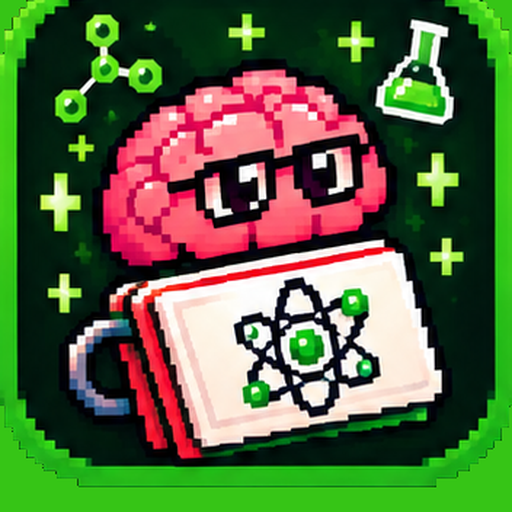
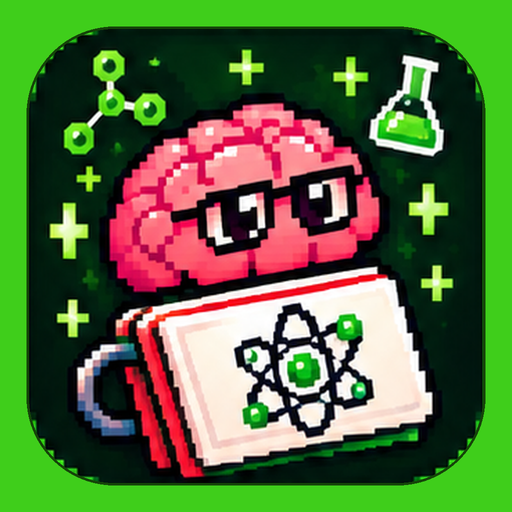
Ikony aplikacji: dokładne wycięcie i równa ramka dookoła
Claude-Session: https://claude.ai/code/session_01XXanGnhjjnzsxd4etEsKKt

diff --git a/theme.js b/theme.js
@@ -163,9 +163,9 @@ const APP_ICONS = [['red', 'Czerwona'], ['blue', 'Niebieska'], ['purple', 'Fiole
   ['cyan', 'Turkusowa'], ['pink', 'Różowa'], ['ice', 'Lodowa'], ['violet', 'Indygo']];
 const appIconOf = () => APP_ICONS.some(([c]) => c === S?.settings?.appIcon) ? S.settings.appIcon : 'red';
 function applyAppIcon() {
-  const c = appIconOf(), touch = c === 'red' ? 'icons/apple-touch-icon.png' : `icons/alt/${c}-180.png`;
+  const c = appIconOf(), touch = (c === 'red' ? 'icons/apple-touch-icon.png' : `icons/alt/${c}-180.png`) + '?v=2';   // ?v – iOS nie bierze starej ikony z pamięci
   document.querySelectorAll('link[rel="apple-touch-icon"]').forEach(l => { if (l.getAttribute('href') !== touch) l.setAttribute('href', touch); });
-  const fav = c === 'red' ? 'icons/favicon-64.png' : `icons/alt/${c}-180.png`;
+  const fav = (c === 'red' ? 'icons/favicon-64.png' : `icons/alt/${c}-180.png`) + '?v=2';
   document.querySelectorAll('link[rel="icon"]').forEach(l => { if (l.getAttribute('href') !== fav) l.setAttribute('href', fav); });
 }
 function appIconHTML() {

diff --git a/styles.css b/styles.css
@@ -2317,6 +2317,6 @@ body.px-theme::after { content: ''; position: fixed; inset: 0; pointer-events: n
 @media (prefers-reduced-motion: reduce) { body.px-theme::after { display: none; } }
 /* Ikona aplikacji – wybór koloru */
 .appicons { display: grid; grid-template-columns: repeat(3, 1fr); gap: 12px; max-width: 300px; margin: 0 auto; }
-.appicon { padding: 3px !important; border-radius: 16px; border: 2px solid transparent; background: none; min-width: 0; aspect-ratio: 1; }
-.appicon img { width: 100%; height: 100%; display: block; border-radius: 12px; image-rendering: auto; }
+.appicon { padding: 3px !important; border-radius: 26%; border: 2px solid transparent; background: none; min-width: 0; aspect-ratio: 1; }
+.appicon img { width: 100%; height: 100%; display: block; border-radius: 22.4%; image-rendering: auto; }
 .appicon.on { border-color: var(--accent); box-shadow: 0 0 0 3px var(--accent-soft, transparent); }

diff --git a/app.js b/app.js
@@ -10,7 +10,7 @@ const uid = () => Date.now().toString(36) + Math.random().toString(36).slice(2, 
 const esc = s => String(s ?? '').replace(/[&<>"']/g, c => ({ '&': '&amp;', '<': '&lt;', '>': '&gt;', '"': '&quot;', "'": '&#39;' }[c]));
 const fmt = s => esc(s).replace(/\n/g, '<br>');
 const MIN = 60e3, HOUR = 36e5, DAY = 864e5;
-const APP_VERSION = '143';   // podbijaj razem z CACHE w sw.js
+const APP_VERSION = '144';   // podbijaj razem z CACHE w sw.js
 const shuffle = a => { for (let i = a.length - 1; i > 0; i--) { const j = Math.random() * (i + 1) | 0; [a[i], a[j]] = [a[j], a[i]]; } return a; };
 const clamp = (v, a, b) => Math.max(a, Math.min(b, v));
 

diff --git a/index.html b/index.html
@@ -13,8 +13,8 @@
   <meta name="mobile-web-app-capable" content="yes">
   <meta name="apple-mobile-web-app-status-bar-style" content="default">
   <meta name="apple-mobile-web-app-title" content="Fiszki">
-  <link rel="apple-touch-icon" href="icons/apple-touch-icon.png">
-  <link rel="icon" href="icons/favicon-64.png">
+  <link rel="apple-touch-icon" href="icons/apple-touch-icon.png?v=2">
+  <link rel="icon" href="icons/favicon-64.png?v=2">
   <link rel="manifest" href="manifest.webmanifest">
   <link rel="stylesheet" href="styles.css">
 </head>

diff --git a/sw.js b/sw.js
@@ -1,5 +1,5 @@
 // Offline: aplikacja działa bez internetu. Zmień numer wersji przy każdej aktualizacji plików.
-const CACHE = 'fiszki-v143';
+const CACHE = 'fiszki-v144';
 const ASSETS = ['./', 'index.html', 'styles.css', 'app.js', 'manifest.webmanifest',
   'icons/icon-192.png', 'icons/icon-512.png', 'icons/apple-touch-icon.png', 'assets/reakcja-kot.webp', 'assets/stickers/kot-zolnierz.webp', 'assets/stickers/kot-zolnierz-cut.webp'];
 
